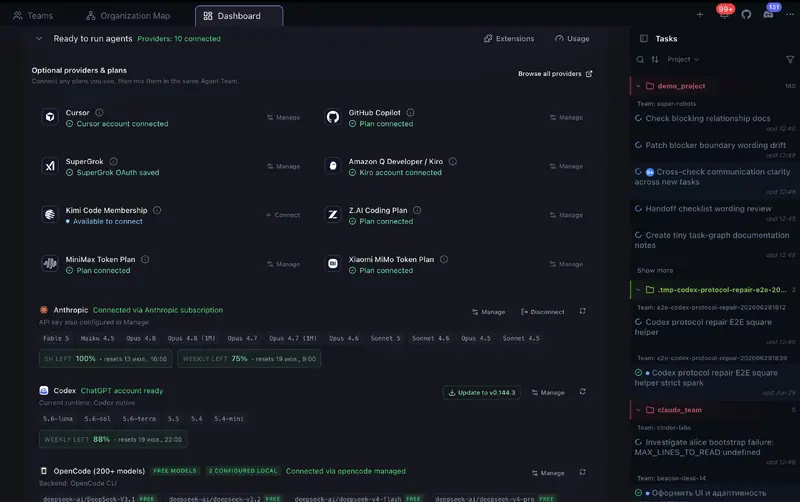
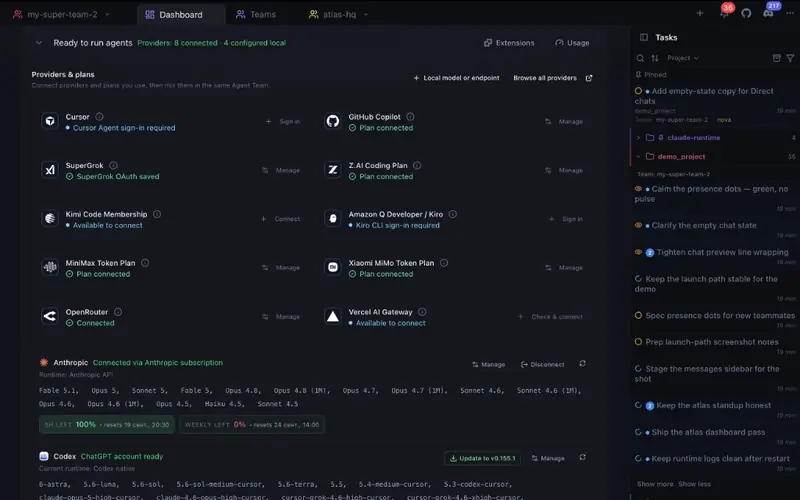
Refresh README screenshots for kanban, task detail, and providers.

diff --git a/landing/data/screenshots.ts b/landing/data/screenshots.ts
@@ -19,7 +19,7 @@ export const screenshots: Screenshot[] = [
     alt: 'Kanban board with team messages and agent tasks',
     ruAlt: 'Канбан-доска с сообщениями команды и задачами агентов',
     width: 1024,
-    height: 582,
+    height: 640,
   },
   {
     path: 'screenshots/14.png',
@@ -42,8 +42,8 @@ export const screenshots: Screenshot[] = [
     previewPath: 'screenshots/previews/13.webp',
     alt: 'Connected AI coding providers and subscription limits',
     ruAlt: 'Подключённые AI-провайдеры и лимиты подписок',
-    width: 2560,
-    height: 1606,
+    width: 1024,
+    height: 640,
   },
   {
     path: 'screenshots/2.png',
@@ -98,8 +98,8 @@ export const screenshots: Screenshot[] = [
     previewPath: 'screenshots/previews/8.webp',
     alt: 'Task details, attachments, and execution logs',
     ruAlt: 'Детали задачи, вложения и логи выполнения',
-    width: 2624,
-    height: 1638,
+    width: 1024,
+    height: 639,
   },
   {
     path: 'screenshots/9.png',

diff --git a/README.md b/README.md
@@ -43,15 +43,15 @@
   </a>
 </td>
 <td width="50%">
-  <a href="docs/screenshots/14.png">
-    <img src="docs/screenshots/previews/14.webp" alt="Token usage, costs, runs, and budget analytics" width="100%" loading="lazy" />
+  <a href="docs/screenshots/8.png">
+    <img src="docs/screenshots/previews/8.webp" alt="Task details, attachments, and execution logs" width="100%" loading="lazy" />
   </a>
 </td>
 </tr>
 <tr>
 <td width="50%">
-  <a href="docs/screenshots/8.png">
-    <img src="docs/screenshots/previews/8.webp" alt="Task details, attachments, and execution logs" width="100%" loading="lazy" />
+  <a href="docs/screenshots/14.png">
+    <img src="docs/screenshots/previews/14.webp" alt="Token usage, costs, runs, and budget analytics" width="100%" loading="lazy" />
   </a>
 </td>
 <td width="50%">
